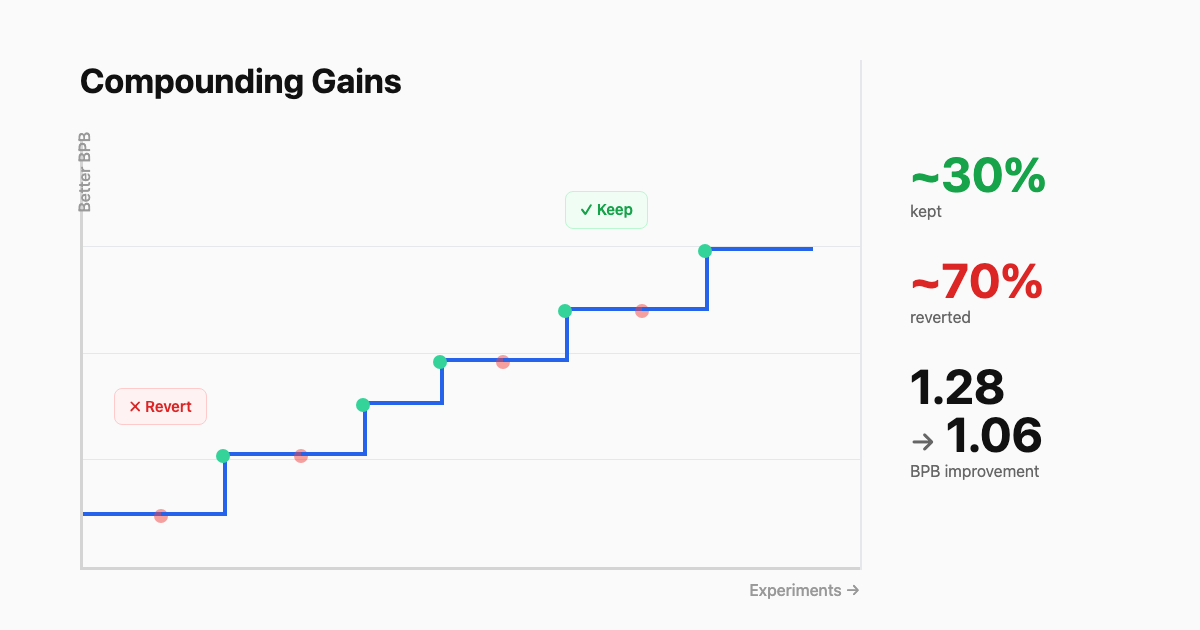
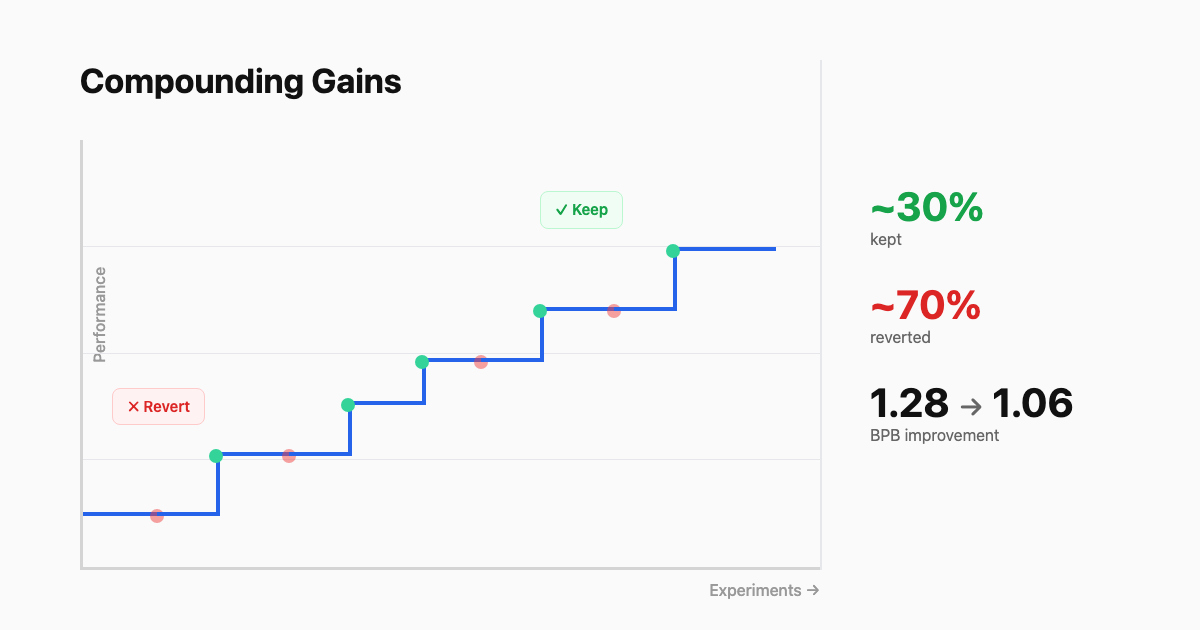
Tighten article copy, fix typos, pin GitHub links, update title and images

diff --git a/writing/autoresearch/index.html b/writing/autoresearch/index.html
@@ -3,11 +3,11 @@
 <head>
     <meta charset="UTF-8">
     <meta name="viewport" content="width=device-width, initial-scale=1.0">
-    <title>Karpathy's Autoresearch: Self-Directed AI Research While You Sleep | Justin Luk</title>
+    <title>Karpathy's 630-Line Script That Outperformed Its Creator | Justin Luk</title>
     <meta name="description" content="A clear explanation of Karpathy's autoresearch project — what it does, why it matters, and what comes next for self-improving AI research loops.">
     <link rel="canonical" href="https://jluk.me/writing/autoresearch/">
     <!-- Open Graph -->
-    <meta property="og:title" content="Karpathy's Autoresearch: Self-Directed AI Research While You Sleep">
+    <meta property="og:title" content="Karpathy's 630-Line Script That Outperformed Its Creator">
     <meta property="og:description" content="A clear explanation of Karpathy's autoresearch project — what it does, why it matters, and what comes next for self-improving AI research loops.">
     <meta property="og:type" content="article">
     <meta property="og:url" content="https://jluk.me/writing/autoresearch/">
@@ -15,7 +15,7 @@
     <meta property="article:author" content="Justin Luk">
     <meta property="article:published_time" content="2026-03-12">
     <meta name="twitter:card" content="summary_large_image">
-    <meta name="twitter:title" content="Karpathy's Autoresearch: Self-Directed AI Research While You Sleep">
+    <meta name="twitter:title" content="Karpathy's 630-Line Script That Outperformed Its Creator">
     <meta name="twitter:description" content="A clear explanation of Karpathy's autoresearch — what it does, why it matters, and what comes next.">
     <meta name="twitter:image" content="https://jluk.me/writing/autoresearch/og-image.png">
     <meta name="twitter:creator" content="@whosjluk">
@@ -30,7 +30,7 @@
     {
         "@context": "https://schema.org",
         "@type": "Article",
-        "headline": "Karpathy's Autoresearch: Self-Directed AI Research While You Sleep",
+        "headline": "Karpathy's 630-Line Script That Outperformed Its Creator",
         "author": {
             "@type": "Person",
             "name": "Justin Luk",
@@ -471,13 +471,13 @@
 
     <article class="article-container">
         <header class="article-header">
-            <h1>Karpathy's Autoresearch: Self-Directed AI Research While You Sleep</h1>
+            <h1>Karpathy's 630-Line Script That Outperformed Its Creator</h1>
             <div class="article-meta">
                 <span>Justin Luk</span>
                 <span>&middot;</span>
                 <span>March 12, 2026</span>
                 <span>&middot;</span>
-                <span>8 min read</span>
+                <span>5 min read</span>
                 <span>&middot;</span>
                 <button class="like-btn" onclick="toggleLike()" aria-label="Like this article">
                     <span class="like-heart">♡</span>
@@ -486,60 +486,54 @@
         </header>
 
         <div class="article-content">
-            <p><a href="https://x.com/karpathy">Andrej Karpathy</a> released a project called <a href="https://github.com/karpathy/autoresearch">autoresearch</a> that lets an AI agent autonomously modify ML training code, run experiments, evaluate results, and iterate — in a loop, unattended, overnight. It actually works and improved a very strong baseline approach.</p>
+            <p>Give an AI agent permission to edit one file, a five-minute training budget, and a single instruction: "NEVER STOP." <a href="https://x.com/karpathy">Karpathy</a> built <a href="https://github.com/karpathy/autoresearch">autoresearch</a> on this premise — a loop that turns a single GPU into an overnight research lab. It works.</p>
 
-            <p>I think it's one of the more important things to come out of the AI tooling space this year, and it deserves a clear explanation for people who aren't neck-deep in ML Twitter. It will certainly be cited as obvious in hindsight, a mark of a great product.</p>
-
-            <img src="img-hero.png" alt="The Autoresearch Loop — 5 steps: Modify Code, Train 5 min, Measure BPB, Keep or Revert, Repeat" class="article-image-full">
+            <p>I think it's one of the more important things to come out of the AI tooling space this year (it's only March), and it deserves a clear explanation for people who aren't neck-deep in ML Twitter. It will certainly be cited as obvious in hindsight, a mark of a great product.</p>
 
             <h2>What is it</h2>
 
-            <p>The setup is relatively straightforward. There's a training script that builds and trains a small language model. An AI agent is given permission to modify that script — and only that script. Then it <a href="https://x.com/karpathy/status/2030371219518931079">loops</a>:</p>
+            <p>There's a training script for a small language model. An AI agent gets permission to modify that script — and only that script. Then it <a href="https://x.com/karpathy/status/2030371219518931079">loops</a>:</p>
 
             <ol>
                 <li><strong>Modify the code</strong> — architecture, hyperparameters, optimizer, model depth. Anything in the training script is fair game.</li>
-                <li><strong>Train for five minutes</strong> — defined by <a href="https://github.com/karpathy/autoresearch/blob/master/prepare.py#L31">wall-clock time</a>, not steps or epochs. This matters and I'll explain why.</li>
-                <li><strong>Measure validation loss</strong> — specifically <a href="https://github.com/karpathy/autoresearch/blob/master/prepare.py#L344-L350">bits per byte (bpb)</a>, a metric that's independent of vocabulary size, so you can compare across different tokenizer configurations fairly.</li>
-                <li><strong>Keep or revert</strong> — if bpb improved, the change is committed. If not, <a href="https://github.com/karpathy/autoresearch/blob/master/program.md#L104"><code>git reset</code></a>. Clean slate.</li>
-                <li><strong>Repeat</strong> — the agent's instructions <a href="https://github.com/karpathy/autoresearch/blob/master/program.md#L112">literally say "NEVER STOP."</a></li>
+                <li><strong>Train for five minutes</strong> — defined by <a href="https://github.com/karpathy/autoresearch/blob/c2450add72cc80317be1fe8111974b892da10944/prepare.py#L31">wall-clock time</a>, not steps or epochs.</li>
+                <li><strong>Measure validation loss</strong> — specifically <a href="https://github.com/karpathy/autoresearch/blob/c2450add72cc80317be1fe8111974b892da10944/prepare.py#L344-L350">bits per byte (bpb)</a>, a metric that's independent of vocabulary size, so you can compare across different tokenizer configurations fairly.</li>
+                <li><strong>Keep or revert</strong> — if bpb improved, the change is committed. If not, <a href="https://github.com/karpathy/autoresearch/blob/c2450add72cc80317be1fe8111974b892da10944/program.md#L104"><code>git reset</code></a>. Clean slate.</li>
+                <li><strong>Repeat</strong> — the agent's instructions <a href="https://github.com/karpathy/autoresearch/blob/c2450add72cc80317be1fe8111974b892da10944/program.md#L112">literally say "NEVER STOP."</a></li>
             </ol>
+
+            <img src="img-hero.png" alt="The Autoresearch Loop — 5 steps: Modify Code, Train 5 min, Measure BPB, Keep or Revert, Repeat" class="article-image-full">
 
             <p>You get twelve experiments per hour. Roughly a hundred overnight. You go to sleep and wake up to a log of everything the agent tried and a model that's measurably better than where it started.</p>
 
             <h2>Not your grandpa's hyperparameter tuning</h2>
 
-            <p>Automated hyperparameter search has existed for decades with grid search, random search, Bayesian optimization — all well-understood. However, those tools search within a space that a human defines. You have to set bounds on learning rate, batch size, maybe model width, and the system explores that finite box.</p>
+            <p>Grid search, random search, Bayesian optimization — they all search within bounds a human sets. You define ranges for learning rate, batch size, model width, and the system explores that box.</p>
 
-            <p>Autoresearch is very different because the agent modifies source code autonomously to restructure model architecture, introduce new techniques, change the optimizer, or rewrite the training loop. No predefined search space to limit it's scope, so tt operates closer to a researcher — read the code, form a hypothesis, change something, measure the outcome.</p>
+            <p>Autoresearch modifies source code. It can restructure the architecture, swap the optimizer, rewrite the training loop. No predefined search space. It operates like a researcher — read the code, form a hypothesis, change something, measure.</p>
 
             <img src="img-comparison.png" alt="Traditional hyperparameter search (bounded grid) vs Autoresearch source code modification (unbounded)" class="article-image">
 
-            <p>The gap between "search within bounds I set" and "modify the code itself" is the gap between minor optimization and research while I sleep.</p>
-
             <h2>You have five minutes, Mr. Agent</h2>
 
-            <p>If you measure experiments by training steps, your results are hardware-dependent. An H100 and a laptop would yield incomparable data. The five-minute wall-clock constraint makes results portable across hardware so the agent discovers what's optimal for whatever machine it's on.</p>
+            <p>If you measure by training steps, results are hardware-dependent — an H100 and a laptop yield incomparable data. Wall-clock time makes results portable. The agent discovers what's optimal for whatever machine it's on.</p>
 
-            <p>It also creates a valuable efficiency pressure, as a bloated model that trains slowly will lose to a lean model that converges fast. For production ML compute carries a cost so the speed of iteration compounds. This time budget encodes that requirement directly into the experiment loop.</p>
-
-            <p>Practically, five minutes means failed experiments are also cheap. The agent can take risks and it should as most ideas in ML research don't work. A system that can try a hundred of them overnight, cheaply, and keep only the wins produces high expected value with low downside per trial.</p>
+            <p>It also pressures efficiency. A bloated model that trains slowly loses to a lean one that converges fast. And five minutes means failed experiments are cheap — most ideas in ML don't work, so a system that tries a hundred overnight and keeps only the wins is exactly what you want.</p>
 
             <h2>Training code is Karpathy level</h2>
 
             <img src="img-baseline.png" alt="The baseline is Karpathy-level: MuonAdamW hybrid optimizer, sliding window attention, best-fit data packing, fast-fail on NaN" class="article-image">
 
-            <p>Worth noting: the baseline code the agent modifies is very strong (as you'd expect from Karpathy). The whole thing is <a href="https://github.com/karpathy/autoresearch/blob/master/train.py">~630 lines of Python</a> — minimal, but state-of-the-art.</p>
+            <p>The baseline is <a href="https://github.com/karpathy/autoresearch/blob/c2450add72cc80317be1fe8111974b892da10944/train.py">~630 lines of Python</a> — minimal, but state-of-the-art:</p>
 
-            <p>Here's what the baseline already does:</p>
+            <ol>
+                <li><strong><a href="https://github.com/karpathy/autoresearch/blob/c2450add72cc80317be1fe8111974b892da10944/train.py#L356">MuonAdamW hybrid optimizer</a></strong> — uses two different strategies to adjust the model's parameters during training. Muon (polar decomposition for orthogonality) handles the big weight matrices, AdamW handles everything else. Like having a different coaching style for sprinters vs. marathon runners on the same team.</li>
+                <li><strong><a href="https://github.com/karpathy/autoresearch/blob/c2450add72cc80317be1fe8111974b892da10944/train.py#L435">Sliding window attention</a></strong> — controls how much context the model considers when predicting the next word. Alternates full-context and local-context layers (SSSL pattern) so the model gets the big picture and local detail without paying full compute cost on every layer.</li>
+                <li><strong><a href="https://github.com/karpathy/autoresearch/blob/c2450add72cc80317be1fe8111974b892da10944/prepare.py#L278-L281">Best-fit data packing</a></strong> — training data normally gets padded with empty space to fill batches evenly. Autoresearch packs documents together for 100% token utilization. Every byte the GPU touches is real data.</li>
+                <li><strong><a href="https://github.com/karpathy/autoresearch/blob/c2450add72cc80317be1fe8111974b892da10944/train.py#L569-L572">Fast-fail on NaN</a></strong> — if the model's numbers explode mid-training (NaN loss), the run dies immediately instead of burning the remaining five minutes on a doomed experiment.</li>
+            </ol>
 
-            <ul>
-                <li><strong>A smarter way to learn from mistakes.</strong> When a neural network trains, it adjusts millions of numbers to get better at its task. The optimizer is the algorithm that decides <em>how</em> to adjust them. Most systems use one strategy for everything. Autoresearch uses a <a href="https://github.com/karpathy/autoresearch/blob/master/train.py#L356">hybrid</a> — one approach for the big matrices of numbers (where the math benefits from a technique called polar orthogonalization), and a different approach for everything else. It's like having a different coaching style for sprinters vs. marathon runners on the same team.</li>
-                <li><strong>Selective memory during reading.</strong> When a language model reads text, "attention" is how it decides which earlier words matter for predicting the next one. Full attention — looking at everything that came before — is expensive. Autoresearch <a href="https://github.com/karpathy/autoresearch/blob/master/train.py#L435">alternates layers</a> between full-context and short-context attention, so the model gets both the big picture and local detail without the full computational cost.</li>
-                <li><strong>Zero wasted data.</strong> Training data gets chopped into batches. Normally, shorter documents get padded with empty space to fill a batch evenly — like shipping half-empty boxes. Autoresearch <a href="https://github.com/karpathy/autoresearch/blob/master/prepare.py#L278-L281">packs documents together optimally</a>, hitting 100% utilization. Every token the GPU processes is real data. More learning per compute dollar.</li>
-                <li><strong>Fast-fail on bad experiments.</strong> If the model's numbers <a href="https://github.com/karpathy/autoresearch/blob/master/train.py#L569-L572">blow up mid-training</a> (NaN values, exploding loss), training stops immediately instead of burning the remaining five minutes on a doomed run.</li>
-            </ul>
-
-            <p>The agent is experimenting on a <strong>very</strong> well-engineered baseline. Improvements it finds are real improvements to SOTA knowledge, not artifacts of a weak starting point with improvements that are well-understood already.</p>
+            <p>The agent experiments on a strong baseline. Improvements it finds are real — not artifacts of a weak starting point.</p>
 
             <h2>Expected value math</h2>
 
@@ -547,44 +541,40 @@
 
             <p>Failed experiments cost five minutes of GPU time and nothing else — the code reverts automatically. Successful experiments compound as each improvement becomes the new baseline for the following run.</p>
 
-            <p>The early results speak for themselves.</p>
-
             <ol>
                 <li>Over two days, the agent <a href="https://venturebeat.com/technology/andrej-karpathys-new-open-source-autoresearch-lets-you-run-hundreds-of-ai">ran ~700 experiments and found ~20 real improvements</a>. Stacked together, time-to-GPT-2 dropped from 2.02 to 1.80 hours — an 11% speedup. The agent caught oversights in attention scaling and regularization that Karpathy himself had missed. One community member documented their overnight run where <a href="https://github.com/karpathy/autoresearch/discussions/43">7 of 35 experiments succeeded</a>, and the model improved by getting simpler.</li>
-                <li><a href="https://x.com/tobi/status/2030771823151853938">Shopify CEO Tobi Lutke</a> ran it overnight and woke up to an agent-optimized 0.8B model that outscored his previous 1.6B — a 19% improvement in validation scores. His reaction was "OK this thing is totally insane."</li>
+                <li><a href="https://x.com/tobi/status/2030771823151853938">Shopify CEO Tobi Lutke</a> ran it overnight and woke up to an agent-optimized 0.8B model that outscored his previous 1.6B — a 19% improvement in validation scores. His reaction was "OK this thing is totally insane." He then <a href="https://x.com/tobi/status/2032212531846971413">applied it to Shopify's Liquid template engine</a> — 53% faster parse+render, 61% fewer object allocations. Not an ML model. A production codebase.</li>
             </ol>
-
-            <p>If 10% of experiments produce a measurable gain, that's ten improvements overnight which compound on the last. Over a week, that's 70 improvements. While gains may be incremental per experiment, the compounding is significant. This is the same math that makes continuous integration incredibly valuable — small, frequent, validated changes accumulate into large differences. (Thanks calc3, for making me take the area of a donut.)</p>
 
             <img src="img-compounding.png" alt="Compounding gains over ~100 experiments — ~30% kept, ~70% reverted, BPB improves from 1.28 to 1.06" class="article-image">
 
+            <p>If 10% of experiments produce a gain, that's ten improvements per night, compounding on each other. Over a week, 70. Same math that makes CI valuable — small, frequent, validated changes accumulate into large differences. (Thanks calc 2, for making me take the area of a donut.)</p>
+
             <p>The <strong>cost of failure is bounded</strong> and the <strong>value of success is cumulative</strong>.</p>
 
-            <h2>Next will be scaling compute, time, memory and application domains</h2>
+            <h2>What comes next</h2>
 
-            <p>This is a single agent on a single GPU. The logical next steps:</p>
+            <p>This is a single agent on a single GPU. The logical next steps I see are:</p>
 
             <img src="img-swarm.png" alt="Evolution from single agent today, to agent swarm, to autonomous research lab" class="article-image">
 
-            <p><strong>1. Parallel agents across a cluster.</strong> Karpathy has already said the next step is <a href="https://x.com/karpathy/status/2030705271627284816">SETI@home-style massive collaboration</a>: "The goal is not to emulate a single PhD student, it's to emulate a research community of them." Multiple agents exploring different parts of the design space simultaneously, with a shared leaderboard of what's working. This is where throughput goes from a hundred experiments a night to thousands.</p>
+            <p><strong>1. Parallel agents.</strong> Karpathy's next step is <a href="https://x.com/karpathy/status/2030705271627284816">SETI@home-style collaboration</a>: "The goal is not to emulate a single PhD student, it's to emulate a research community of them." Already happening — on March 8–9, 35 agents on the Hyperspace network ran 333 experiments unattended.</p>
 
-            <p><strong>2. Smarter memory-led exploration.</strong> Right now the agent proposes changes based on its general knowledge of ML. Future versions will incorporate the history of what's already been tried — what worked, what didn't, and why. This moves the system from "informed trial and error" toward something closer to directed research with memory.</p>
+            <p><strong>2. Memory-led exploration.</strong> Right now the agent proposes changes from general ML knowledge. Future versions will track what's been tried, what worked, and why — moving from trial-and-error toward directed research.</p>
 
-            <p><strong>3. Longer budgets for deeper experiments.</strong> Some techniques only show their value after extended training. Five minutes is a good starting point for rapid iteration, but expanding to thirty-minute or hour-long runs would let the agent explore changes that need more time to converge.</p>
+            <p><strong>3. Longer time budgets.</strong> Some techniques only pay off after extended training. Expanding to 30-minute or hour-long runs opens up changes that need more time to converge.</p>
 
-            <p><strong>4. Application beyond language models.</strong> The loop structure — modify code, run experiment, measure outcome, keep or revert — is not specific to NLP. It applies anywhere you have a codified experiment and a measurable objective. Protein structure prediction, reinforcement learning reward shaping, compiler optimization. The pattern transfers. Community forks are already proving this out — there's an <a href="https://github.com/trevin-creator/autoresearch-mlx">Apple Silicon MLX port</a> and a <a href="https://github.com/jsegov/autoresearch-win-rtx">Windows RTX fork</a> expanding hardware support.</p>
+            <p><strong>4. Beyond language models.</strong> Modify code, measure outcome, keep or revert — this works anywhere you have a codified experiment and a metric. Lutke already proved it on <a href="https://x.com/tobi/status/2032212531846971413">Shopify's Liquid codebase</a>. Community forks include an <a href="https://github.com/trevin-creator/autoresearch-mlx">Apple Silicon MLX port</a> and a <a href="https://github.com/jsegov/autoresearch-win-rtx">Windows RTX fork</a>.</p>
 
             <h2>Conclusions & take-off velocity</h2>
 
-            <p>Recursive self-improvement (spooky) has been lauded by optimists (golden goose) and doomers (boogeyman). An AI that can make itself better, which makes it better at making itself better, and so on. It's usually framed as a theoretical concern or a far-future scenario.</p>
+            <p>Recursive self-improvement is usually framed as theoretical or far-future. Autoresearch may just be a working prototype as the agent doesn't modify its own weights, but it modifies the training process that produces them. </p>
 
-            <p>Autoresearch is honestly a working version of that loop. An AI agent improves the code that trains AI models with compounding results. While the agent doesn't modify its own weights directly — it modifies the training process that produces them. It's not skynet but the feedback loop is here for AI to improve how AI gets built.</p>
+            <p>The bottleneck in ML research has never been ideas but time to test them. This agent caught optimizations that a <strong>two-decade ML veteran missed</strong>. Not because it's smarter, it just had <strong>way more at-bats</strong>.</p>
 
-            <p>The bottleneck in ML research has never been ideas, but time and attention to test them. A researcher can maybe run a handful of meaningful experiments in a day, while this system runs a hundred overnight. This agent already caught optimizations that a <strong>brilliant two-decade veteran of ML missed</strong>. Not because the agent is smarter — because it has <strong>more attempts at-bat</strong>.</p>
+            <p>This doesn't replace researchers, but it does provide caffeine-charged never sleeping interns that run a hundred experiments while they sleep. You design the loop, set the constraints, evaluate the trajectory.</p>
 
-            <p>No, this doesn't replace researchers. It does supercharge their effective output though. Instead of running experiments, you define the bounds for your caffeine-charged intern. You design the loop, set the constraints, and evaluate the trajectory.</p>
-
-            <p>This is a for-loop with really good taste. And it's the special kind of project that looks small in the moment and obvious in hindsight. A loop, a metric, and an agent with permission to edit code. The rest is compute and time.</p>
+            <p>A for-loop with <strong><em>really good taste</em></strong>. The kind of project that looks small now, but is obvious in hindsight. One loop, one metric, one agent with permission to edit code. The rest is compute and time.</p>
         </div>
 
         <div class="share-section">
@@ -630,7 +620,7 @@
         // Share buttons
         (function() {
             const url = 'https://jluk.me/writing/autoresearch/';
-            const title = "Karpathy's Autoresearch: Self-Directed AI Research While You Sleep";
+            const title = "Karpathy's 630-Line Script That Outperformed Its Creator";
             const text = title + ' by @whosjluk';
 
             document.getElementById('share-x').href =

diff --git a/writing/autoresearch/img-compounding.html b/writing/autoresearch/img-compounding.html
@@ -39,10 +39,10 @@
             font-weight: 500;
         }
         .y-label {
-            top: -8px;
-            left: -8px;
-            transform: rotate(-90deg) translateX(-100%);
-            transform-origin: top left;
+            top: 50%;
+            left: -32px;
+            transform: rotate(-90deg) translateX(50%);
+            transform-origin: center center;
         }
         .x-label { bottom: -32px; right: 0; }
 
@@ -94,7 +94,7 @@
         }
 
         .stats {
-            width: 260px;
+            width: 300px;
             height: 100%;
             display: flex;
             flex-direction: column;
@@ -104,7 +104,7 @@
             border-left: 2px solid #e5e7eb;
         }
         .stat-value {
-            font-size: 48px;
+            font-size: 40px;
             font-weight: 700;
             color: #111;
             line-height: 1;
@@ -127,7 +127,7 @@
     <div class="chart-area">
         <div class="chart-title">Compounding Gains</div>
         <div class="chart" id="chart">
-            <span class="axis-label y-label">Better BPB</span>
+            <span class="axis-label y-label">Performance</span>
             <span class="axis-label x-label">Experiments →</span>
 
             <div class="grid-line" style="bottom: 25%;"></div>
@@ -196,7 +196,7 @@
             <div class="stat-label">reverted</div>
         </div>
         <div>
-            <div class="stat-value">1.28<br><span class="unit">→</span> 1.06</div>
+            <div class="stat-value">1.28 <span class="unit">→</span> 1.06</div>
             <div class="stat-label">BPB improvement</div>
         </div>
     </div>
